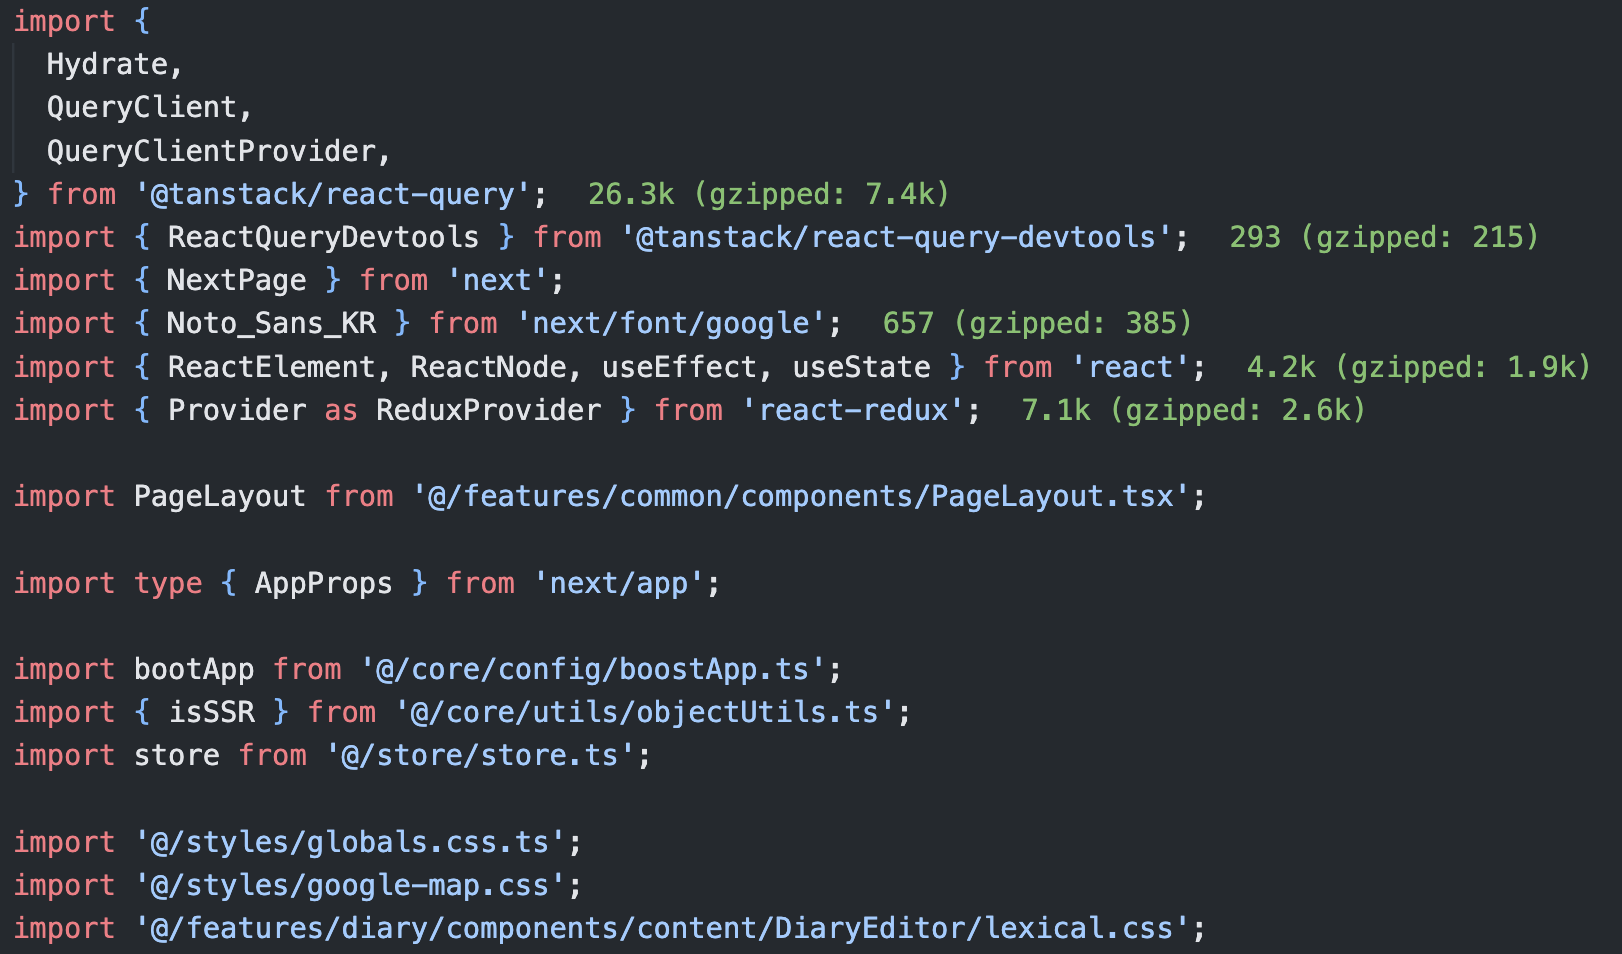
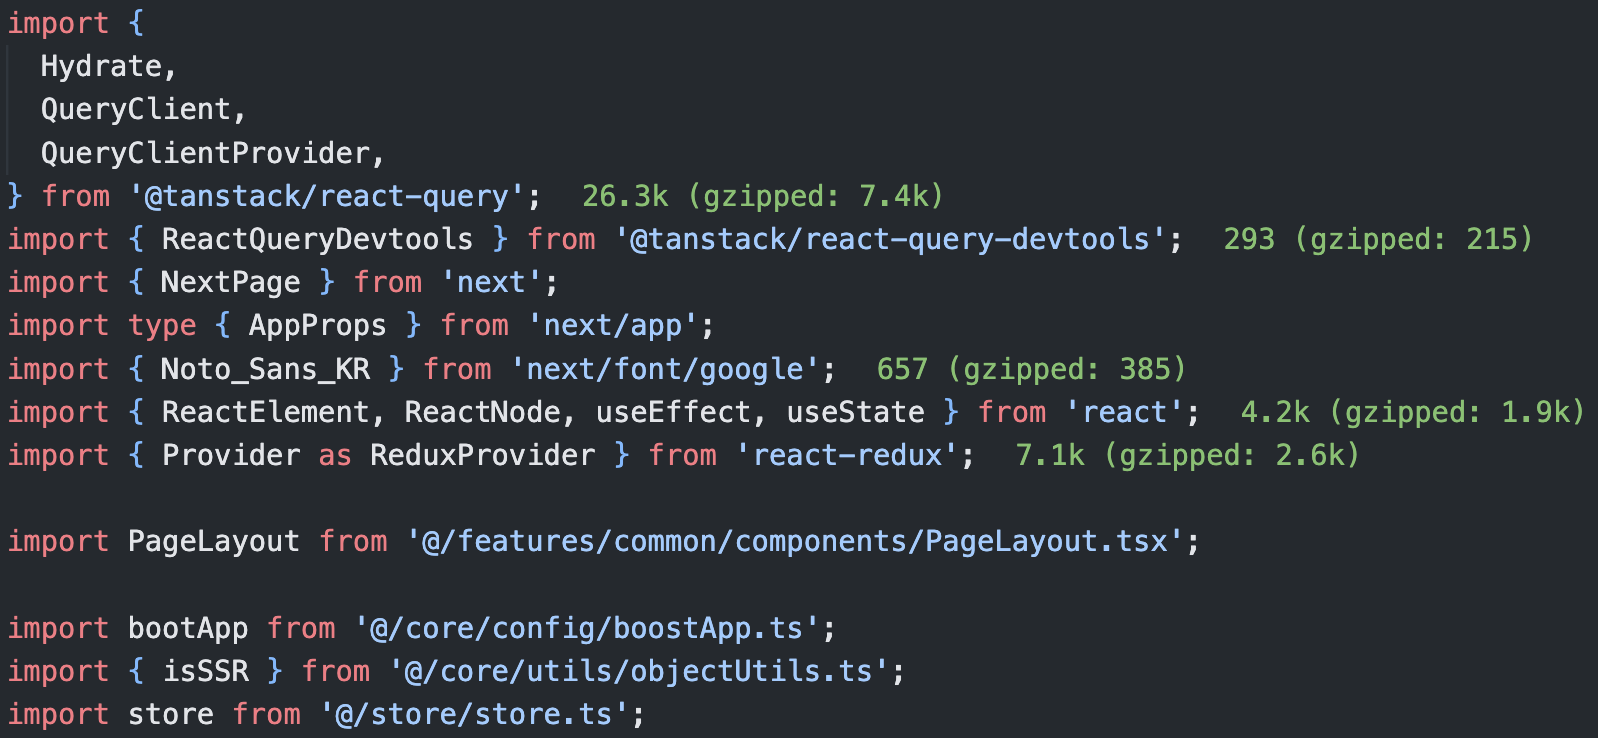
post: modify post eslint order

diff --git a/src/content/environment/putting-rules-into-import-syntax-with-eslint.md b/src/content/environment/putting-rules-into-import-syntax-with-eslint.md
@@ -230,30 +230,20 @@ ESLint 공식 규칙인 [sort-imports](https://eslint.org/docs/latest/rules/sort
           "position": "before"
         },
         {
-          "pattern": "react",
-          "group": "builtin"
-        },
-        {
-          "pattern": "@tanstack/**",
-          "group": "builtin",
-        },
-        {
-          "pattern": "@/libs/**",
-          "group": "unknown"
-        },
-        {
           "pattern": "@/core/**",
           "group": "unknown"
         },
         {
-          "pattern": "@/store/**",
-          "group": "unknown"
+          "pattern": "@/feature/**",
+          "group": "unknown",
+          "position": "after"
         },
         {
           "pattern": "**/*.css.ts",
           "group": "unknown",
           "position": "after"
-        }
+        },
+        (...)
       ],
       "newlines-between": "always",
       "alphabetize": {
@@ -279,7 +269,7 @@ ESLint 공식 규칙인 [sort-imports](https://eslint.org/docs/latest/rules/sort
 
 ![order-after](../img/environment/putting-rules-into-import-syntax-with-eslint/order-after.png)
 
-전체 코드는 [GitHub](https://github.com/pozafly/jiary/blob/d294374c4b2f2a5accf2ad5da284cf42738a5d7e/.eslintrc.json#L25C22-L25C22)에서 확인할 수 있다.
+전체 코드는 [GitHub](https://github.com/pozafly/jiary/blob/6f8ac45f201248ec097f102690e09888514261e2/.eslintrc.json#L34)에서 확인할 수 있다.
 
 <br/>
 
